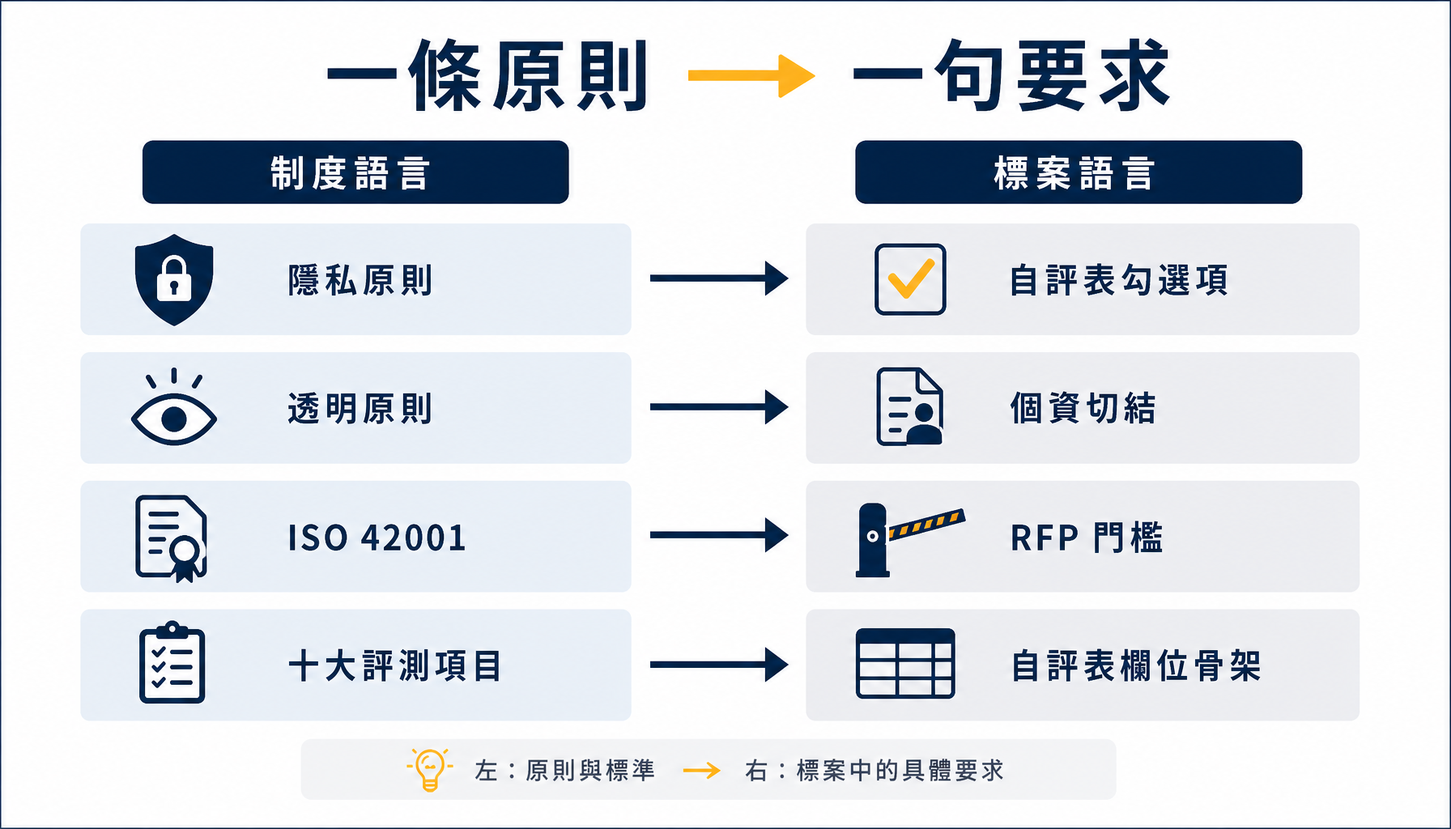
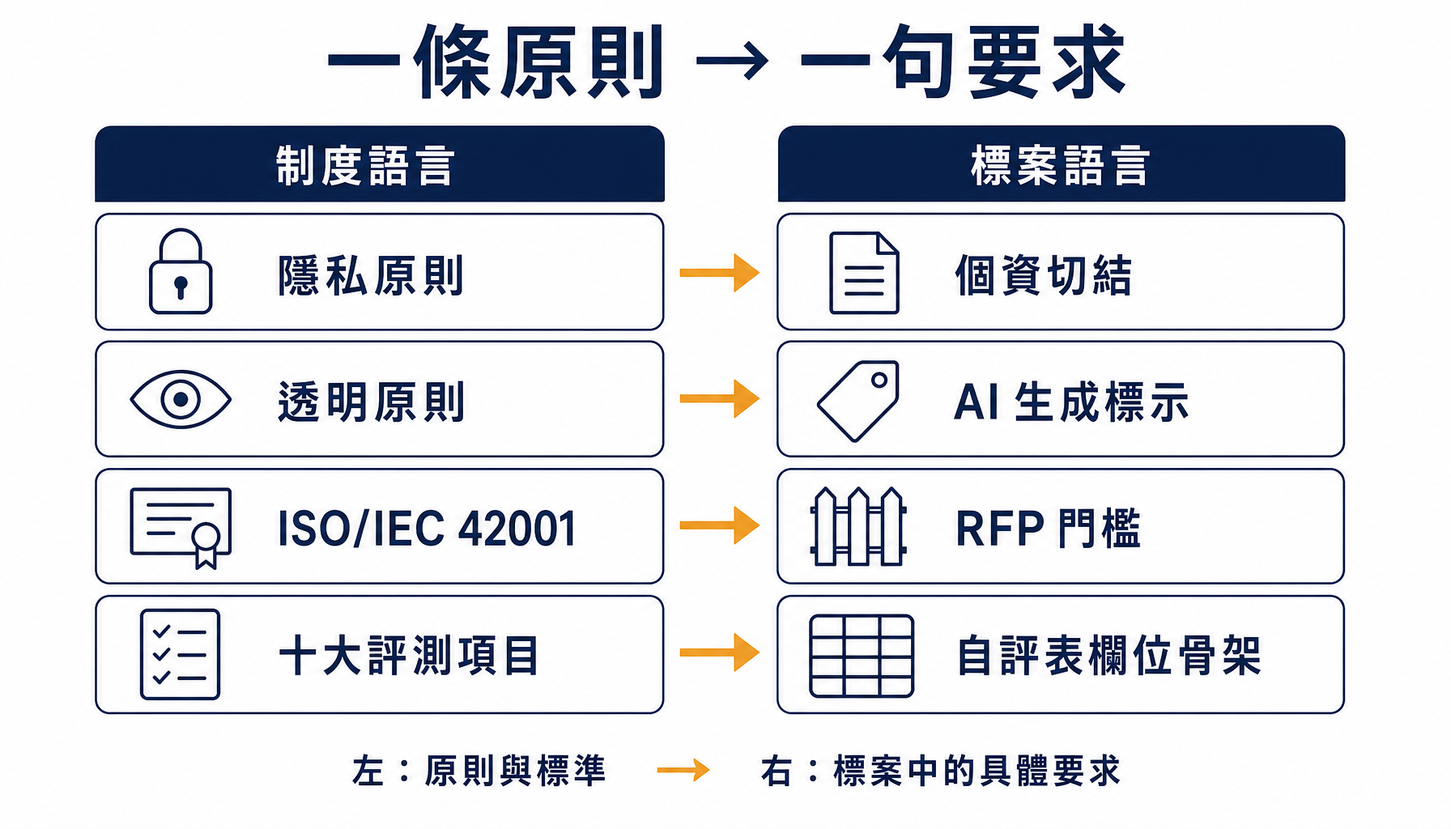
Day20：大幅擴充內容並補正法規事實
正文自 3,952 擴充至 11,350 字元，配圖 5 張增為 8 張。原本「翻譯的核心」
一節僅 131 字元且對照表只存在於圖片中，小結反而是全文最長段；本次改寫
將配重拉正，並補上原先完全缺漏的「得標之後」維度。

新增段落：
- 資安責任等級：A–E 五級如何決定 RFP 要求強度
- 十列制度／標案語言對照表（取代原本僅存在於圖片的對照）
- 醫院在個資法上的「受託者」關係與委外監督義務
- AI 採購新紅線：DeepSeek 禁令、模型來源與資料落地
- 履約與驗收階段的資安義務（變更報備、一小時通報、權限回收、資料刪除）
- 證據勝於形容詞的答法對照、「不適用」的正確用法
- 採購方視角：怎麼把 AI 要求寫進 RFP

事實補正（經全國法規資料庫覆核）：
- 分級辦法授權依據為《資通安全管理法》第 7 條第 3 項，非第 1 項
- A 級為「公立」醫學中心；C–E 級判準為是否維運資通系統
- 通報辦法已於 2026/1/5 更名為《資通安全事件通報應變及演練辦法》
- 42001 章名改採 CNS 官方用語（效能評估、運作、改善、領導作為）
- 政府採購法第 103 條停權期間為三級，且刊登以未提出異議為前提
- 數產署為 AIEC 推動機關，非主管機關
- 對照表三個品質項目改對映附錄 A 控制，與 Day29 檢核表一致

圖檔：重生 Day20-03（原圖誤植 ISO 42001、且「透明原則→個資切結」
與正文矛盾），新增 05 資安責任等級、06 採購紅線、07 標案四階段；
原 05-stage3-complete 順移為 08，維持檔名序號與閱讀順序一致。

diff --git a/Day20.md b/Day20.md
@@ -34,7 +34,24 @@
 
 ![制度語言與標案語言的對照](https://raw.githubusercontent.com/nickchen1998/ithelp-2026-ai-security/main/%E5%9C%96%E6%AA%94/Day20/Day20-03-mapping-table.png)
 
-看懂這組對映的邏輯，就掌握了翻譯的訣竅：**每一條抽象的原則或標準，最終都會落成一句「可勾選、可查證、可簽名」的具體要求。** 這份翻譯工作，就是在這兩端之間來回對照。
+把這個轉譯關係攤開成表格，即為本文的核心對照表。以 AIEC 十大評測項目（Day 18）為列，每一列回答四個問題：**背後的制度來源是什麼、標案文件會怎麼問、要交出什麼證據、證據在本系列哪一天做出來。** 表中「基本法」指《人工智慧基本法》（見 Day 8），「42001」指 ISO/IEC 42001:2023（見 Day 9–13）。
+
+| AIEC 評測項目 | 制度來源 | 標案怎麼問 | 應提出的證據 |
+| --- | --- | --- | --- |
+| 準確性 | 42001 附錄 A 品質相關控制 | 系統回答的正確率如何驗證？ | 依據不足時不硬答的門檻設計與實跑紀錄（Day 24） |
+| 可靠性 | 42001 附錄 A 驗證與供應者相關控制 | 輸入異常或換個問法時，回答是否仍然穩定？ | 紅隊測試指標、供應鏈完整性驗證（Day 26、28） |
+| 彈性 | 42001 附錄 A 驗證與測試相關控制 | 遭遇攻擊或壓力時，能否維持運作並於事後恢復？ | 紅隊測試報告與攻擊成功率變化（Day 26） |
+| 安全性 | 基本法第 4 條「資安與安全」 | 系統是否可能輸出有害內容？如何防範？ | 輸出約束與免責提示設計（Day 23、24） |
+| 資安 | 《資通安全管理法》相關規範；基本法第 4 條「資安與安全」 | 是否防範提示注入等針對 AI 的攻擊？ | 指令隔離與輸入淨化設計、攻擊測試紀錄（Day 23、26） |
+| 隱私 | 《個人資料保護法》；基本法第 4 條「隱私保護與資料治理」 | 個資如何蒐集、去識別化、保存與刪除？ | 資料治理說明、去識別化與輸出遮蔽紀錄（Day 22、24） |
+| 透明性 | 基本法第 4 條「透明與可解釋」 | AI 生成的內容是否明確標示？ | 介面標示樣張、來源引用機制（Day 24） |
+| 可解釋性 | 基本法第 4 條「透明與可解釋」 | 系統能否說明答案的依據？ | 檢索來源回傳設計、答案可回溯的樣例（Day 24） |
+| 當責性 | 基本法第 4 條「問責」；42001 第 5 章「領導作為」 | 出事時能否追溯到人、時間與內容？ | 稽核日誌樣本與防竄改機制（Day 27） |
+| 公平性 | 基本法第 4 條「公平與不歧視」 | 是否對特定族群產生差別待遇？ | 資料源頭治理紀錄、分群測試與偏差檢查（Day 22、26） |
+
+這張表要傳達的邏輯只有一句：**每一條抽象的原則或標準，最終都會落成一句「可勾選、可查證、可簽名」的具體要求。** 而最右邊那一欄之所以重要，是因為**採購方真正在乎的不是你答「符合」，而是你答完之後拿得出什麼**。
+
+值得補充的是，這張表的形狀正是 Day 29 那份《AI 專案資安合規檢核表》的雛形——到了 Day 29，同樣這十列會被寫成程式讀得懂的資料結構，可以自動計分、自動列出缺口。
 
 # 實戰示範：RAG 客服投一個醫院標案
 
@@ -46,13 +63,19 @@
 
 醫院自評表裡的資安要求，可以直接用 Day 18 的十大評測項目當骨架，逐項回答。以下是示範性質的自評條目：
 
-- ✔ **系統是否防範個資外洩（隱私）？** 知識庫已去識別化，並設輸出過濾（Day 22、24）。
+- ✔ **系統是否防範個資外洩（隱私）？** 知識庫已去識別化（Day 22、24）。
 - ✔ **是否防範提示注入等攻擊（資安）？** 系統提示隔離加上輸入淨化（Day 23）。
 - ✔ **使用者是否僅能存取被授權資料（存取控制）？** 檢索層依權限過濾（Day 25）。
 - ✔ **AI 回答是否標示生成並附來源（透明性）？** 每則回覆標註 AI 生成並附引用（Day 24）。
 - ✔ **是否留存可追溯的操作紀錄（當責性）？** 全程保留防竄改稽核日誌（Day 27）。
 
-**逐項填寫時會發現：每一項證據，正好就是第四階段（Day 21–30）要動手做的技術控制。** 也就是說，本系列後半寫的每一段程式，最後都是在為這張自評表補上一格證據。
+實際的自評表通常不只是打勾，而是一張有固定欄位的表格。以「隱私」那一列為例，填完之後長這樣：
+
+| 要求項目 | 符合狀態 | 實作做法 | 佐證文件 |
+| --- | --- | --- | --- |
+| 系統應防止個人資料經由 AI 回覆外洩 | 符合 | 入庫前去識別化；出口遮蔽規則過濾；檢索層權限隔離 | 附件三：資料治理說明書第 2 節；附件五：出口遮蔽規則與測試紀錄 |
+
+**四個欄位裡，最後一欄的份量最重。** 「符合」是聲明，「實作做法」是說明，只有「佐證文件」是可以被查證的東西。逐項填寫時會發現：每一項證據，正好就是第四階段（Day 21–30）要動手做的技術控制。也就是說，本系列後半寫的每一段程式，最後都是在為這張自評表補上一格證據。
 
 ## 二、切結書：把原則翻成承諾句
 
@@ -72,16 +95,132 @@
 
 讀到這種條款，前十九天的知識就直接派上用場——你會知道 ISO/IEC 42001 是什麼（Day 9–13）、AIEC 評測報告怎麼來（Day 17）、十大評測項目指什麼（Day 18）。**制度知識，在這一刻直接轉化成「看得懂門檻、備得齊文件」的競標能力。**
 
+# 門檻的高度不是隨機的：資安責任等級
+
+拿到不同機關的自評表，第一個困惑通常是：**為什麼有的只有五題、有的卻有五十題？** 這不是承辦人的心情問題，背後有制度依據。
+
+《資通安全管理法》第 7 條第 3 項授權主管機關（依同法第 2 條為數位發展部）訂定分級辦法，據此訂有《資通安全責任等級分級辦法》。這部辦法把公務機關與**特定非公務機關**——依《資通安全管理法》第 3 條，指關鍵基礎設施提供者、公營事業，以及政府捐助之財團法人——的資安責任，由高至低分成 **A、B、C、D、E 五級**：
+
+- **A 級**：業務涉及國家機密者；涉及外交、國防或國土安全事項者；涉及全國性民眾服務或跨公務機關共用性資通系統之維運者；持有全國性民眾或公務員個人資料檔案者；或屬公務機關且業務涉及全國性關鍵基礎設施事項者。**公立醫學中心亦列於此級。**
+- **B 級**：業務涉及公務機關捐助、資助或研發之國家核心科技資訊者；涉及區域性、地區性民眾服務或跨公務機關共用性資通系統者；持有區域性或地區性民眾個人資料檔案者；涉及中央二級機關及所屬各級機關共用性資通系統之維運者；或涉及區域性、地區性關鍵基礎設施事項者。**公立區域醫院與地區醫院列於此級。**
+- **C、D、E 級**：判準換成另一個軸——有沒有在維運資通系統。維運自行或委外設置、開發之資通系統者為 C 級；自行辦理資通業務但未維運這類系統者為 D 級；既無資通系統、也未提供資通服務，或資通業務全部由上級機關兼辦、代管者為 E 級。
+
+判斷 A 級與 B 級的主軸，是「**全國性**」與「**區域、地區性**」的差別。這也直接解答了醫療場域的一個常見疑問：同樣是醫院，醫學中心與區域醫院的資安責任等級本來就不同級，落到採購文件上的要求密度自然不一樣。五個等級與採購要求強度的關係，如下圖所示。
+
+![資安責任等級 A 至 E 與採購要求強度的關係](https://raw.githubusercontent.com/nickchen1998/ithelp-2026-ai-security/main/%E5%9C%96%E6%AA%94/Day20/Day20-05-security-levels.png)
+
+等級不是機關自己說了算——依該辦法，行政院應每三年核定自身的資通安全責任等級並送主管機關備查；行政院直屬機關則應每三年提交自身、所屬與所監督的公務機關、以及所管特定非公務機關的等級，報主管機關核定。**每一級對應一組不同強度的應辦事項**（辦法以附表逐級列出），例如資安專責人力的配置、教育訓練時數、資通安全防護措施的種類，以及是否需要導入資訊安全管理系統並通過第三方驗證。
+
+對投標方來說，這條制度線索很實用：**採購方的責任等級愈高，它會把愈嚴的要求往下寫進 RFP，也會把愈多義務透過契約轉嫁給你。** 同一套 AI 客服賣給不同等級的機關，需要應付的資安要求密度可能差一個量級。看到自評表題目暴增時，先確認對方是幾級，就能理解題數差異的來由。
+
+另外有一項具體的資格門檻值得知道：數位發展部數位產業署（即推動 AIEC 的同一個機關，見 Day 15、Day 16）辦有**資訊安全服務機構能量登錄**——由政府先審查廠商在某類資安服務上實際具備的人力與技術能力，通過者列冊公告，供政府機關採購時參考。不少資安相關標案會把「具備某項能量登錄」直接寫成投標資格。這提醒我們一件事：**標案上的門檻，不只有國際標準與驗證，也包含這類本土的登錄制度。**
+
+# 醫院為什麼問得特別細：廠商在個資法上的「受託者」身分
+
+責任等級解釋了「要求有多嚴」，但還沒解釋醫院為何連細節都要問。這不是刁難，而是它自己身上另有一層法律義務，必須往下轉嫁。
+
+《個人資料保護法》（以下簡稱個資法）容許機關委託他人蒐集、處理或利用個人資料，但同時課予**委託機關監督受託者的義務**。《個人資料保護法施行細則》第 8 條把這項監督義務具體化，明定委託機關至少應監督下列事項：
+
+- 預定蒐集、處理或利用個資的範圍、類別、特定目的與期間；
+- 受託者採取的安全維護措施；
+- 有複委託（受託者再把工作轉包給第三方）時，所約定的再受託者；
+- 受託者或其受僱人違反相關法規時，應通知委託機關的事項與採行的補救措施；
+- 委託機關保留指示的事項；
+- **委託關係終止或解除時，個資載體的返還，以及受託者所持有個資的刪除。**
+
+同條並要求委託機關定期確認受託者的執行狀況，並將確認結果作成紀錄。
+
+把這條規定套回 AI 專案，三件事會立刻變得很具體：
+
+- **你就是那個「受託者」。** 醫院要你填自評表、簽切結書、附證據，本質上是它在履行法定的監督義務——它必須留下「已經監督過你」的紀錄。理解這一層，就不會把這些文件當成無意義的形式主義。
+- **呼叫外部模型，很可能構成「複委託」。** 如果你的 RAG 客服把病人的問題送到第三方的大型語言模型（Large Language Model，以下簡稱 LLM）應用程式介面（Application Programming Interface，以下簡稱 API），那個服務商實質上也碰到了資料。複委託是施行細則第 8 條明列的監督事項，代表它必須事先講清楚、寫進契約，而不是預設可以自己決定。
+- **契約結束時，要刪的不只是資料庫。** RAG 系統會把文件切塊後轉成向量存進向量資料庫（Day 21），對話紀錄可能留在日誌裡（Day 27），快取裡也可能有殘留。「返還與刪除」的義務涵蓋的是**所有承載個資的載體**，設計階段就要想好怎麼刪得乾淨、又怎麼證明刪過了。
+
+醫療場域還有兩層額外的敏感度：病歷資料的去識別化程度（Day 22 會實作），以及研究用途與服務用途的界線——同一批資料拿去做客服跟拿去做研究，適用的規範與審查程序並不相同。這些都會反映在醫院自評表那些「看起來很囉唆」的題目裡。
+
+# AI 進到採購裡，多了幾條新的紅線
+
+前面談的都是既有資安框架往 AI 延伸。但已經有一類要求，是純粹因為 AI 才出現的，而且可能直接決定投標資格。
+
+最具代表性的案例是 **DeepSeek 禁令**。2025 年 2 月 3 日，行政院要求公務機關全面禁用 DeepSeek 的 AI 服務；資通安全署其後說明，禁用範圍**包含雲端服務、行動應用程式與地端下載等各種使用方式**。官方說明的理由包括：訓練資料有著作權疑慮、模型存在思想審查與資料偏異、資料可能跨境傳送至中國，以及個資風險。政策保留了學術例外，但那是一道正式程序：公立大學及研究機構如有使用需求，須**依規定程序報准核可**後始得使用；主管政委並建議以不含個資與資料的電腦單機下載、斷網使用較為安全。這項禁令針對公務機關，並未限制一般民間使用。
+
+這件事對開發者的意義，遠比「少一個模型可以用」來得大：
+
+- **模型選擇從技術問題變成資格問題。** 過去挑模型考慮的是效果、成本、延遲；現在還要考慮「我的採購方能不能用它」。一個技術上表現最好的模型，可能因為來源國別而讓整個投標案出局。
+- **地端部署不等於安全過關。** 值得注意的是，這道禁令連「地端下載」都涵蓋在內。也就是說，「我把模型下載下來自己跑，資料沒有出去」這個常見的辯護，在這類禁令面前不成立——受質疑的是模型本身，不只是資料傳輸路徑。
+- **資料落地成為必答題。** 如果 RAG 客服呼叫的是境外 LLM API，病人的問題就離開了機關的控制範圍。這在醫院標案裡幾乎一定會被問到，可能的答案有：改用地端模型、選擇有境內機房的服務、或在送出前先做去識別化（Day 22）。無論選哪一條，都必須寫得出來、證明得了。
+
+這三件事，可以視為 AI 採購上的三道新閘門，如下圖所示。
+
+![AI 採購的三道新紅線：模型來源、資料落地與地端部署](https://raw.githubusercontent.com/nickchen1998/ithelp-2026-ai-security/main/%E5%9C%96%E6%AA%94/Day20/Day20-06-ai-procurement-redlines.png)
+
+再往前看一步：這類「AI 供應來源可不可信」的問題，正是 Day 28 供應鏈治理要處理的技術面。**今天在採購文件上被問的問題，Day 28 會給出可執行的答案**——用 **AI 物料清單（AI Bill of Materials，以下簡稱 AI-BOM）**盤點你用了誰的模型與套件，並用完整性驗證證明它沒有被掉包。
+
+# 得標之後才是開始：履約與驗收
+
+很多人以為資安要求在決標那天就結束了。實際上，決標只是把要求從「投標文件」搬到「契約」而已，真正的執行期才剛開始。一個 AI 標案完整的資安檢核，貫穿以下幾個階段：
+
+- **投標階段**：資格審查、資安自評表、切結書、評選簡報。前面幾節談的都是這一段。
+- **履約階段**：這是時間最長、也最容易出事的一段（見下）。
+- **驗收階段**：採購方常會要求提出**弱點掃描報告或滲透測試報告**（前者由自動化工具掃出已知漏洞，後者由人扮演攻擊者實際嘗試入侵），作為系統上線前的安全佐證；AI 系統則可能額外要求提出評測或紅隊測試結果。本系列 Day 26 產出的紅隊測試報告，正是這一項的填答材料。
+- **維運階段**：定期複測、資安事件通報、人員權限的定期複核。
+
+![AI 標案的四個階段與各階段的資安交付物](https://raw.githubusercontent.com/nickchen1998/ithelp-2026-ai-security/main/%E5%9C%96%E6%AA%94/Day20/Day20-07-bid-lifecycle.png)
+
+履約階段有四件事，是 AI 專案特別容易踩到的：
+
+- **變更管理：換模型要不要報備？** 傳統軟體專案的變更是改版本號；AI 專案卻可能因為上游服務更新，讓模型行為在未改動任何一行程式的情況下改變。契約若寫了「系統組態變更應經機關同意」，那麼把原本使用的商用模型換成另一家供應商的模型、或把地端模型升版，很可能就落在報備範圍內。**這也是為什麼 Day 28 要把模型與套件版本釘選、並留下可比對的指紋（雜湊值）**——你需要一份說得清楚「現在跑的到底是什麼」的紀錄。
+- **資安事件通報有時限。** 依《資通安全事件通報應變及演練辦法》（2026 年 1 月 5 日修正發布現名），公務機關於知悉資通安全事件後應於**一小時內**至主管機關指定的系統平臺通報（第 6 條）；特定非公務機關同樣是一小時，依中央目的事業主管機關指定的方式通報（第 11 條）。醫院若屬關鍵基礎設施提供者，適用的正是後者。委外契約通常會把這項義務往下轉嫁給廠商，也就是說，廠商可能被要求在極短時間內回報異常。一小時的時限，短到不容許「先查清楚再說」。**要在一小時內講得出「發生了什麼、影響哪些資料」，前提是平時就有可查的稽核日誌**——這正是 Day 27 要建的東西。
+- **人員異動與權限回收。** 專案成員離職、輪調時，其對系統與資料的存取權必須即時撤銷，而且要留下撤銷紀錄。對 RAG 系統來說，這不只是後台帳號，也包含模型 API 金鑰、向量資料庫的連線憑證（存取控制的設計見 Day 25）。
+- **契約終止時的資料返還與刪除。** 前面談受託者義務時已經說明，這是個資法施行細則第 8 條明列的監督事項。要在專案結束時交得出「已刪除」的證明，最好的做法是從第一天就設計好資料的生命週期，而不是到最後一天才盤點資料散在哪些地方。
+
+把這四件事合起來看，會得到一個對開發者很重要的結論：**投標階段交的是「文件」，履約階段交的是「持續產生的紀錄」。** 前者可以臨時整理，後者不行——沒有在系統裡預先設計好日誌、版本紀錄與權限機制，履約期間根本產不出來。這也是本系列把稽核與供應鏈放在第四階段後半、當作壓軸的原因。
+
 # 從醫院採購自評提煉的幾個心法
 
 筆者過去參與醫院資訊採購的資安自評時，體會到幾個把「法規詞彙」翻成「標案語言」的實務心法，分享給同樣要面對這類文件的讀者：
 
-- **先對照、再作答**：拿到自評表，先把每一條要求對回它背後的制度來源（是隱私原則？還是資安控制？），你就會知道該拿什麼證據回答，而不是逐條硬想。
-- **證據勝於形容詞**：自評表最忌諱「本公司高度重視資安」這種形容詞。採購方要的是「做了什麼、留下什麼證據」。一句「已實作輸出過濾並留存日誌」，勝過十句「非常安全」。
-- **切結書只承諾做得到的事**：切結書有法律效力，別為了得標承諾做不到的事。你的技術控制做到哪，就承諾到哪——這也是為什麼技術落地（第四階段）必須扎實。
+- **先對照、再作答**：拿到自評表，先把每一條要求對回它背後的制度來源（是隱私原則？還是資安控制？），便能知道該拿什麼證據回答，而不是逐條硬想。
+- **證據勝於形容詞**：自評表最忌諱「本公司高度重視資安」這種形容詞。採購方要的是「做了什麼、留下什麼證據」。
+- **切結書只承諾做得到的事**：切結書有法律效力，別為了得標承諾做不到的事。技術控制做到哪，就承諾到哪——這也是為什麼技術落地（第四階段）必須扎實。
 - **用同一套底稿應對多個標案**：不同標案的自評表格式各異，但背後的資安要求高度重疊。備好一份以十大評測項目為骨架的「主底稿」，每次投標只需微調，效率大增。
 
-最後這一點，正好接上本系列的最終產出。
+其中第二點與第三點值得再展開；在此之前，先補充一個自評表上最常被誤用的選項。
+
+## 證據勝於形容詞：兩種答法的差距
+
+同一道題目「請說明貴公司如何防止 AI 系統洩漏個人資料」，兩種答法的差距如下。
+
+不合格的答法：
+
+> 本公司高度重視個資保護，採用業界標準之加密機制與嚴謹的內部管理流程，確保使用者資料安全無虞。
+
+這段話的問題不在於它是假的，而在於**它沒有任何一句可以被查證**。「高度重視」無法查核、「業界標準」沒有指名、「安全無虞」是結論不是做法。承辦人讀完之後，手上依然沒有可以歸檔的東西。
+
+合格的答法：
+
+> 本系統於三個環節防止個資外洩：（一）知識庫建置階段完成去識別化，姓名、病歷號、聯絡方式於入庫前移除；（二）檢索層依使用者身分過濾，未經授權的資料不會進入模型的提示；（三）回覆送出前經出口遮蔽規則檢查，命中個資樣態即攔截。上述三項均有單元測試與測試紀錄，並將每次查詢寫入稽核日誌，保存期間依契約約定。佐證：附件三、附件五、附件七。
+
+差別在於，第二種答法讓對方**知道要去哪裡查**。判斷自己的答案夠不夠格，有個簡單的檢驗：把句子裡的形容詞全部刪掉，如果剩下的還是完整的說明，就合格；如果刪完只剩空殼，就要重寫。
+
+## 「不適用」不是逃生門
+
+自評表通常有「不適用」這個選項，它常被當成「做不到但又不想勾不符合」時的退路。這是危險的用法。
+
+「不適用」的正確意思是「這條要求在本案的範圍內不存在」——例如系統完全不處理生物特徵資料，那麼與生物特徵有關的條目自然不適用。**勾選時必須一併寫明為什麼不適用**，而且這個理由要能對得上其他欄位的描述。反過來說，如果某條要求確實做不到，誠實勾「不符合」並說明替代措施與改善時程，比勉強勾選「不適用」安全得多——因為前者是一個可以討論的專案風險，後者一旦被發現與事實不符，性質就變成了不實陳述。
+
+這正好接到第三個心法的嚴重性。承諾寫過頭，其後果不只是失去這個案子。若切結或自評的內容與事實不符，而被認定為以不實文件投標或履約，即可能落入《政府採購法》第 101 條所列的情形之一。依該條，機關應將其事實、理由與依同法第 103 條第 1 項所定的期間通知廠商，並附記如未提出異議即刊登政府採購公報；而依第 103 條第 1 項，經刊登者自刊登之次日起一定期間內，不得參加投標、作為決標對象或分包廠商。期間依情形分為三級：最重者三年，其次一年，較輕者則自三個月起算、依再次被刊登的次數遞增至一年。換句話說，**一份寫得太漂亮的切結書，最壞的結果不是這個案子做不好，而是接下來最長三年都不能投標。** 這也是為什麼「只承諾做得到的事」不是道德勸說，而是風險控管。
+
+# 從採購方的角度：怎麼把 AI 要求寫進 RFP
+
+本系列的讀者不只有投標的開發者，也有機關與醫院裡負責寫規格的人。把視角翻過來看，同一套知識可以用來把 AI 要求寫進 RFP。這裡有四個建議：
+
+- **要求必須可驗證。** 「系統應具備良好的資安防護」這種寫法，等於沒寫——它無法判定符合與否，最後只會收到一堆形容詞。改成「投標廠商應說明其對提示注入攻擊之防護設計，並檢附測試紀錄」，才是可以審的條件。
+- **直接指定證據形式。** 與其問「是否留存操作紀錄」，不如寫「應留存可追溯之操作紀錄，並於驗收時提供樣本及防竄改機制說明」。指定形式能大幅減少廠商各說各話的空間。
+- **分清「應」與「宜」，並且想清楚後果。** 每寫下一個「應」，就等於篩掉一批廠商。AI 治理相關要求目前市場量能仍在成長，若一次全部設為「應」，可能導致流標；設為「宜」並納入評選配分，通常是這個階段比較務實的作法。
+- **給技術演進留空間。** AI 領域的模型與工具汰換極快，把規格寫死到特定模型名稱或特定版本，往往在履約期間就過時了。比較好的寫法是要求「能力」與「證據」，而不是要求「品牌」；同時明訂變更報備的程序，讓後續替換有路可走。
+
+寫 RFP 的人與讀 RFP 的人，用的其實是同一張對照表——只是一個從左讀到右，一個從右讀到左。而最後一點心法（可重用的主底稿），正好接上本系列的最終產出。
 
 # 對映到本系列：白皮書就是那份「主底稿」
 
@@ -95,20 +234,23 @@
 
 # 小結：第三階段完結
 
-![第三階段完結：制度、機構、語言全部到位，通往第四階段](https://raw.githubusercontent.com/nickchen1998/ithelp-2026-ai-security/main/%E5%9C%96%E6%AA%94/Day20/Day20-05-stage3-complete.png)
+![第三階段完結：制度、機構、語言全部到位，通往第四階段](https://raw.githubusercontent.com/nickchen1998/ithelp-2026-ai-security/main/%E5%9C%96%E6%AA%94/Day20/Day20-08-stage3-complete.png)
 
 如上圖所示，今天把制度知識翻譯成了實戰語言，也為第三階段（Day 15–20）畫下句點：
 
-- **標案上的三種資安文件**：資安自評表（自我檢查）、切結書（法律承諾）、RFP 資安要求（採購門檻）；
-- **翻譯的核心**是一張對照表：每一條抽象的原則或標準，都會落成一句「可勾選、可查證、可簽名」的具體要求；
-- **實戰示範**：把十大評測項目變成自評表勾選項、把基本法原則翻成切結承諾、把 ISO/IEC 42001 讀成 RFP 門檻；
-- **實務心法**：先對照再作答、證據勝於形容詞、只承諾做得到的事、備好一份可重用的主底稿；
+- **標案上的三種資安文件**：資安自評表、切結書、RFP 資安要求；門檻的高低則由採購方的**資安責任等級**（A 至 E 級）決定；
+- **翻譯的核心**是一張以十大評測項目為列的對照表：制度來源、標案怎麼問、要交什麼證據，一列一列對得上；
+- **醫院問得細，是因為廠商在個資法上是「受託者」**，複委託、資料返還與刪除都必須事先講清楚；
+- **AI 帶來了新的紅線**：模型的來源國別可能直接決定投標資格，資料落地成為必答題；
+- **決標不是終點**：履約與驗收階段的變更報備、一小時事件通報、權限回收與資料刪除，靠的是系統裡預先設計好的紀錄；
+- **實務心法**：先對照再作答、證據勝於形容詞、「不適用」不是逃生門、只承諾做得到的事；
+- **視角可以反過來**：機關端寫 RFP 時，要求必須可驗證、直接指定證據形式、分清「應」與「宜」、給技術演進留空間；
 - **本系列白皮書**，就是那份以十大評測項目為骨架、可重用於各標案的主底稿。
 
 回顧第三階段：我們從制度地圖出發（Day 15），認識了 AIEC 與測試、驗證機構（Day 16–17）、十大評測項目（Day 18）、驗證認證體系與本土案例（Day 19），最後把這一切翻譯成標案語言（Day 20）。**「台灣有哪些機構與資源、又怎麼用」這個問題，到這裡回答完整了。**
 
-**明天（Day 21）進入第四階段「技術落地」——從零打造一個最小的 RAG 範例。** 制度、機構、語言都齊備了，接下來要動手把前面所有的原則與要求，變成一行行真正跑得起來的程式與一份份可稽核的證據。整個系列最硬、也最能證明「從法條到程式碼」的部分，正式開始。
+**明天（Day 21）進入第四階段「技術落地」——從零打造一個最小的 RAG 範例。** 今天列出的每一格證據，接下來九天都要真的做出來。整個系列最硬、也最能證明「從法條到程式碼」的部分，正式開始。
 
 ---
 - 程式碼：本篇為實務方法與文件示範，無對應程式碼；文中自評表、切結、RFP 條目均為示範性質，技術證據落點見第四階段（Day 21–30）。
-- 參考條文／出處：政府採購資安框架參考《資通安全管理法》相關規範、行政院公共工程委員會《資訊服務採購契約範本》所含資安檢核事項、國家資通安全研究院之資安服務需求建議書範本，以及資通安全署之採購資安檢核要求等公開資料（moda.gov.tw、nics.nat.gov.tw、pcc.gov.tw）；文中自評表、切結書、RFP 之具體條目為筆者為教學所設計之示範，非特定機關文件原文。制度對映之原則、標準、評測項目見 Day 8、9–13、18。
+- 參考條文／出處：政府採購資安框架參考《資通安全管理法》相關規範、行政院公共工程委員會《資訊服務採購契約範本》所含資安檢核事項、國家資通安全研究院之資安服務需求建議書範本，以及資通安全署之採購資安檢核要求等公開資料（moda.gov.tw、nics.nat.gov.tw、pcc.gov.tw）。資安責任等級分級依《資通安全管理法》第 7 條第 3 項授權訂定之《資通安全責任等級分級辦法》第 3 至 8 條（全國法規資料庫）；資訊安全服務機構能量登錄見數位發展部數位產業署公開資訊。委外監督義務見《個人資料保護法》及《個人資料保護法施行細則》第 8 條（全國法規資料庫）；資安事件通報時限見《資通安全事件通報應變及演練辦法》第 6 條、第 11 條（2026 年 1 月 5 日修正發布現行名稱及全文，全國法規資料庫）；不良廠商刊登公報與停權期間見《政府採購法》第 101 條、第 103 條（全國法規資料庫）。DeepSeek 禁用政策見行政院 2025 年 2 月 3 日新聞稿及數位發展部相關新聞稿。法律、命令與公文（依《著作權法》第 9 條，公文包括公務員於職務上草擬之文告、講稿、新聞稿及其他文書）均非著作權標的，可自由引用；ISO/IEC 42001 之章節對映以目的轉述、未引原文。文中自評表、切結書、RFP 之具體條目為筆者為教學所設計之示範，非特定機關文件原文。制度對映之原則、標準、評測項目見 Day 8、9–13、18。
